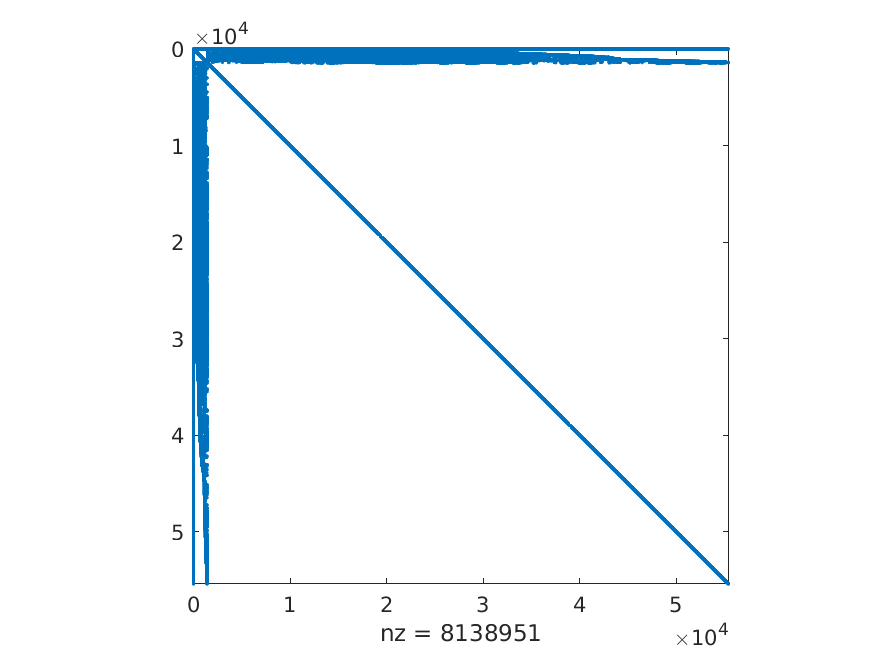
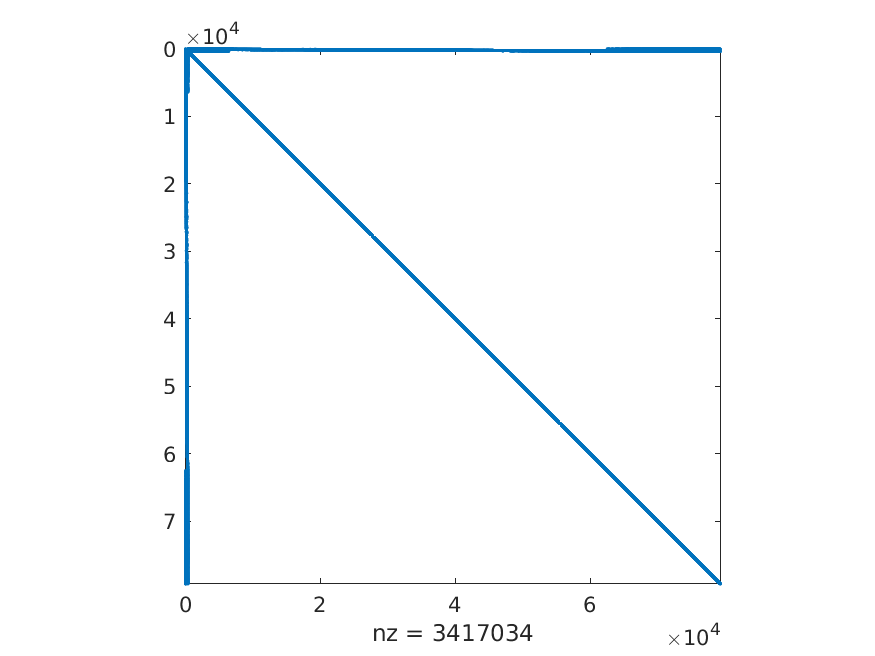
compute_block_inverse

diff --git a/code/MPI/main.c b/code/MPI/main.c
@@ -18,20 +18,23 @@ The matrices are read from files with the name of the blocks(Hcc,...). In these 
 first entry gives the no of non zeros in the matrix block.
 
 Compile as : cc -w main.c st_io.c
+
+The no of processors this can be run on is 3
 */
 
 #include<stdio.h>
 #include<stdlib.h>
 #include<string.h>
 #include<malloc.h>
+#include<mpi.h>
 
 #include"st_io.h"
 #include"read_coo_matrix.h"
 #include"read_b.h"
 
-
+//parameters for the ROMA dataset
 #define CAM_PARAMS 353 		
-#define STRUCT_PARAMS 21000
+#define STRUCT_PARAMS 78963
 
 
 
@@ -43,6 +46,7 @@ int main()
 	coo_mat* Hcs;
 	coo_mat* Hsc;
 	coo_mat* Hss;
+	coo_mat* Hss_inv;
 	double*  b;
 
 	Hcc = read_coo_matrix("Hcc",CAM_PARAMS,CAM_PARAMS);
@@ -51,12 +55,9 @@ int main()
 	Hss = read_coo_matrix("Hss",STRUCT_PARAMS,STRUCT_PARAMS);
 	b = read_b(CAM_PARAMS+STRUCT_PARAMS); // read the RHS of the system
 
+	Hss_inv = compute_block_inverse(Hss);
+
 	
-	printf("\nHcc_row -> %d\n", Hcc->row_idx[8]); // -1.4099e+07
-	printf("\nHcc_col -> %d\n", Hcc->col_idx[8]); // -2139.91
-	//printf("\nHsc -> %lf\n", Hsc[2][0]); // -2139.91
-	printf("\nHcc_val -> %lf\n", Hcc->val[8]); // 6479.53
-	printf("\nb -> %lf\n", b[2]); // -4.07038e+06
 
 	return 0;
 }

diff --git a/code/MPI/read_coo_matrix.h b/code/MPI/read_coo_matrix.h
@@ -8,6 +8,7 @@ typedef struct
 	int* row_idx;
 	int* col_idx;
 	double* val;
+	int nnz;
 }coo_mat;
 
 
@@ -71,6 +72,7 @@ coo_mat* read_file(char* input_filename)
 	mat_read->row_idx = (int*)malloc(nnz*sizeof(int));
 	mat_read->col_idx = (int*)malloc(nnz*sizeof(int));
 	mat_read->val     = (double*)malloc(nnz*sizeof(double));
+	mat_read->nnz     = nnz;
 
 	r8st_data_read (input_filename, row, col, nnz, mat_read->row_idx, mat_read->col_idx, mat_read->val);
 

diff --git a/code/MPI/compute_block_inverse.h b/code/MPI/compute_block_inverse.h
@@ -1,0 +1,4 @@
+//This code computes the inverse of the input block diagonal matrix.
+//Since the individual blocks are 3x3 so their inverse can be computed 
+//as (adjoint a)/(det a). So the complete Hss matrix has to be divided into
+//blocks of 3 to utilize the structure of the 3x3 blocks.
